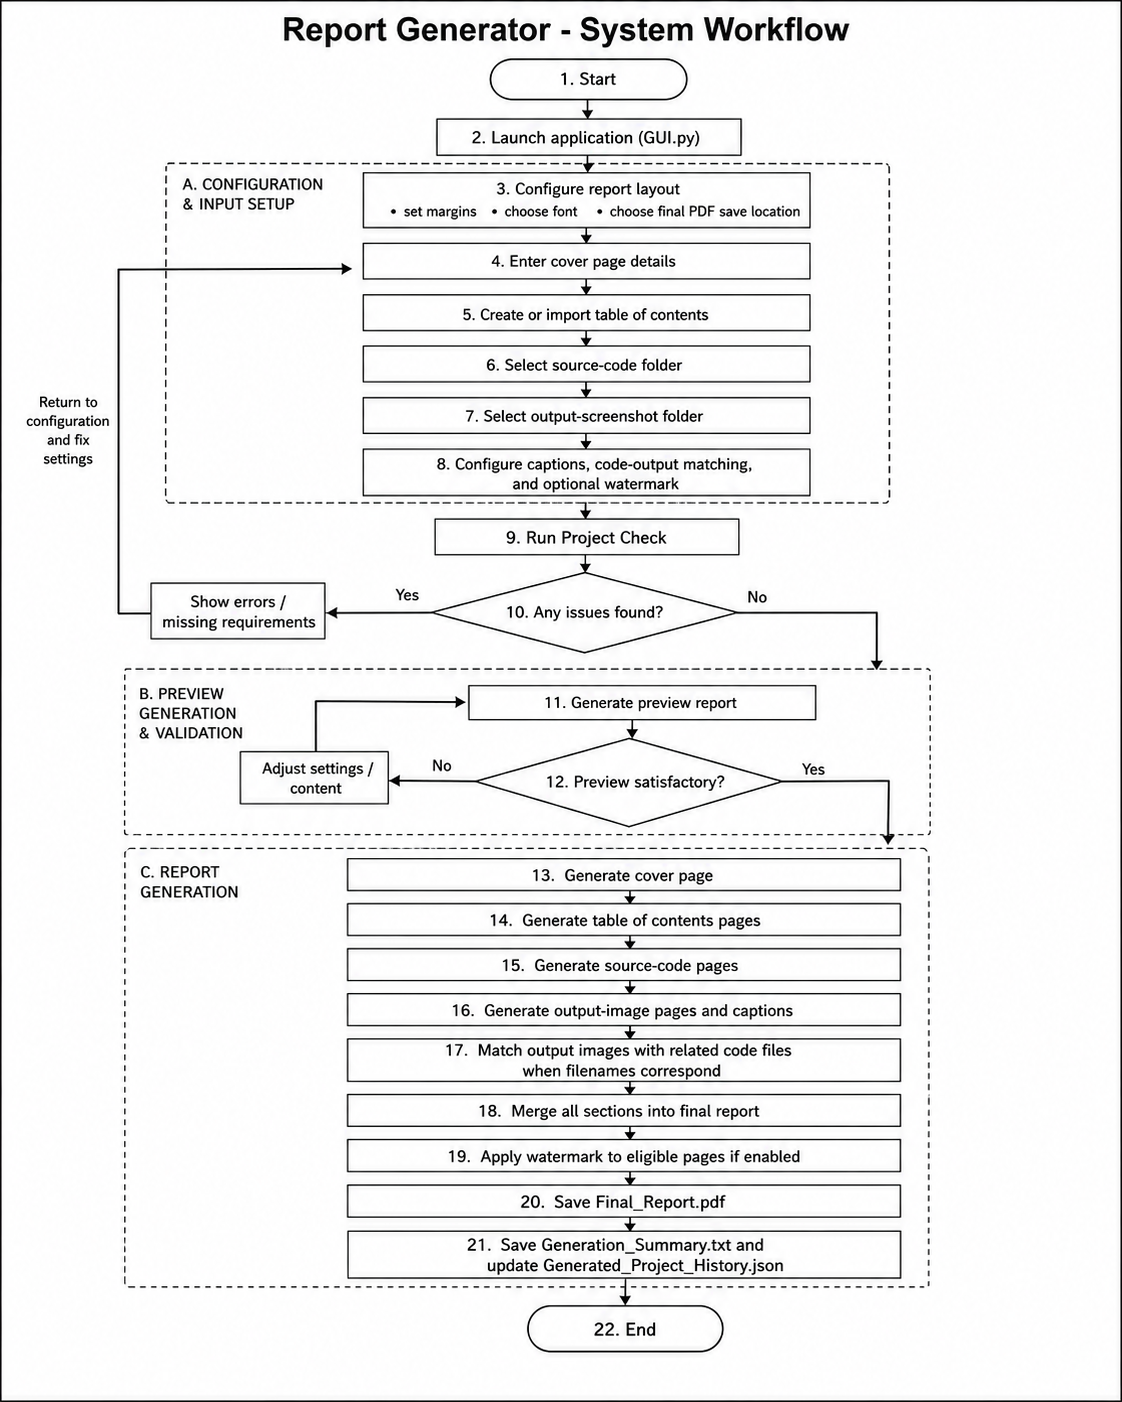
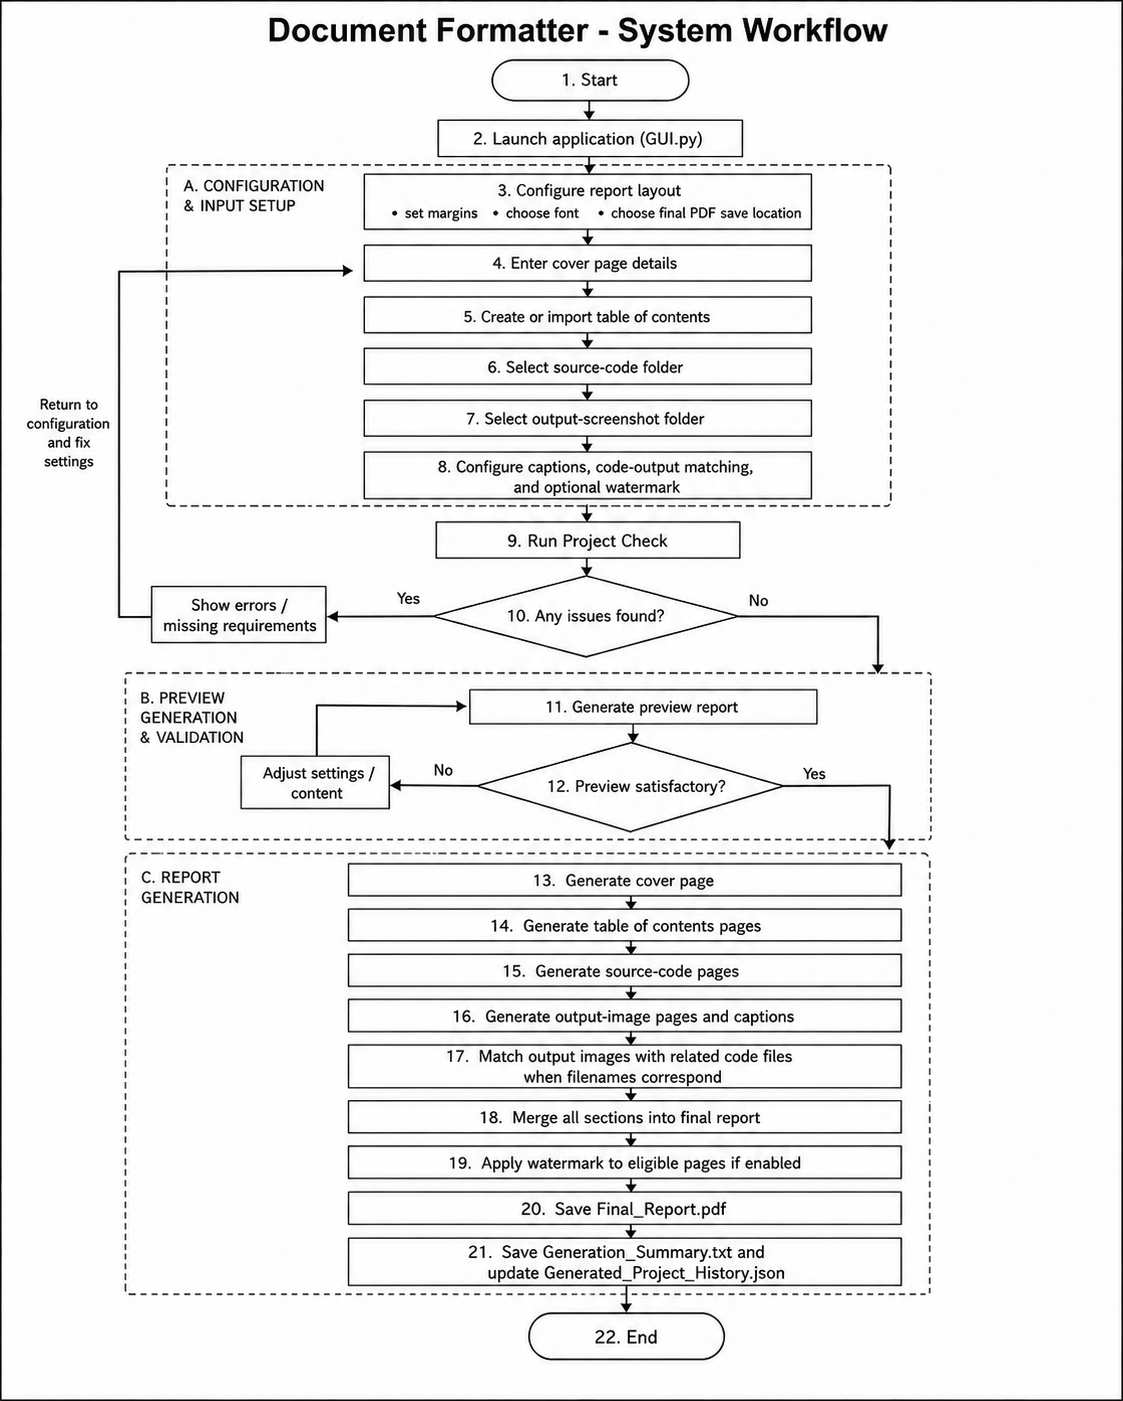
update readme and flowchart

diff --git a/README.md b/README.md
@@ -184,7 +184,7 @@ Binary files, compressed archives, office documents, executables, images, and hi
 ## Important Project Files
 
 ```text
-Document_Formatter/
+document-formatter/
 ├── Assets/
 │   └── Icons/                         GUI icons
 ├── Default_Code_Folder/               Default source-code folder
@@ -236,8 +236,8 @@ python-docx==1.2.0
 ### Clone the repository
 
 ```bash
-git clone https://github.com/ShiveshShrestha/Projects.git
-cd Projects/Document_Formatter
+git clone https://github.com/ShiveshShrestha/document-formatter.git
+cd document-formatter
 ```
 
 ### Create a virtual environment
@@ -277,7 +277,7 @@ pip install -r requirements.txt
 
 ## Required Font Files
 
-Before running the application, add the required `.ttf` font files to the `Document_Formatter/Fonts/` folder.
+Before running the application, add the required `.ttf` font files to the `Fonts/` folder.
 
 The folder must contain:
 
@@ -297,7 +297,7 @@ Incorrect or missing filenames may cause a missing-font error during preview or 
 
 ## Running the Application
 
-Run the following command from inside the `Document_Formatter` folder:
+Run the following command from inside the project folder:
 
 ```bash
 python GUI.py
@@ -503,7 +503,7 @@ The summary may include:
 
 ### Missing font error
 
-Check that all four required `.ttf` files exist inside `Document_Formatter/Fonts/` and that their filenames exactly match:
+Check that all four required `.ttf` files exist inside `Fonts/` and that their filenames exactly match:
 
 ```text
 times.ttf
